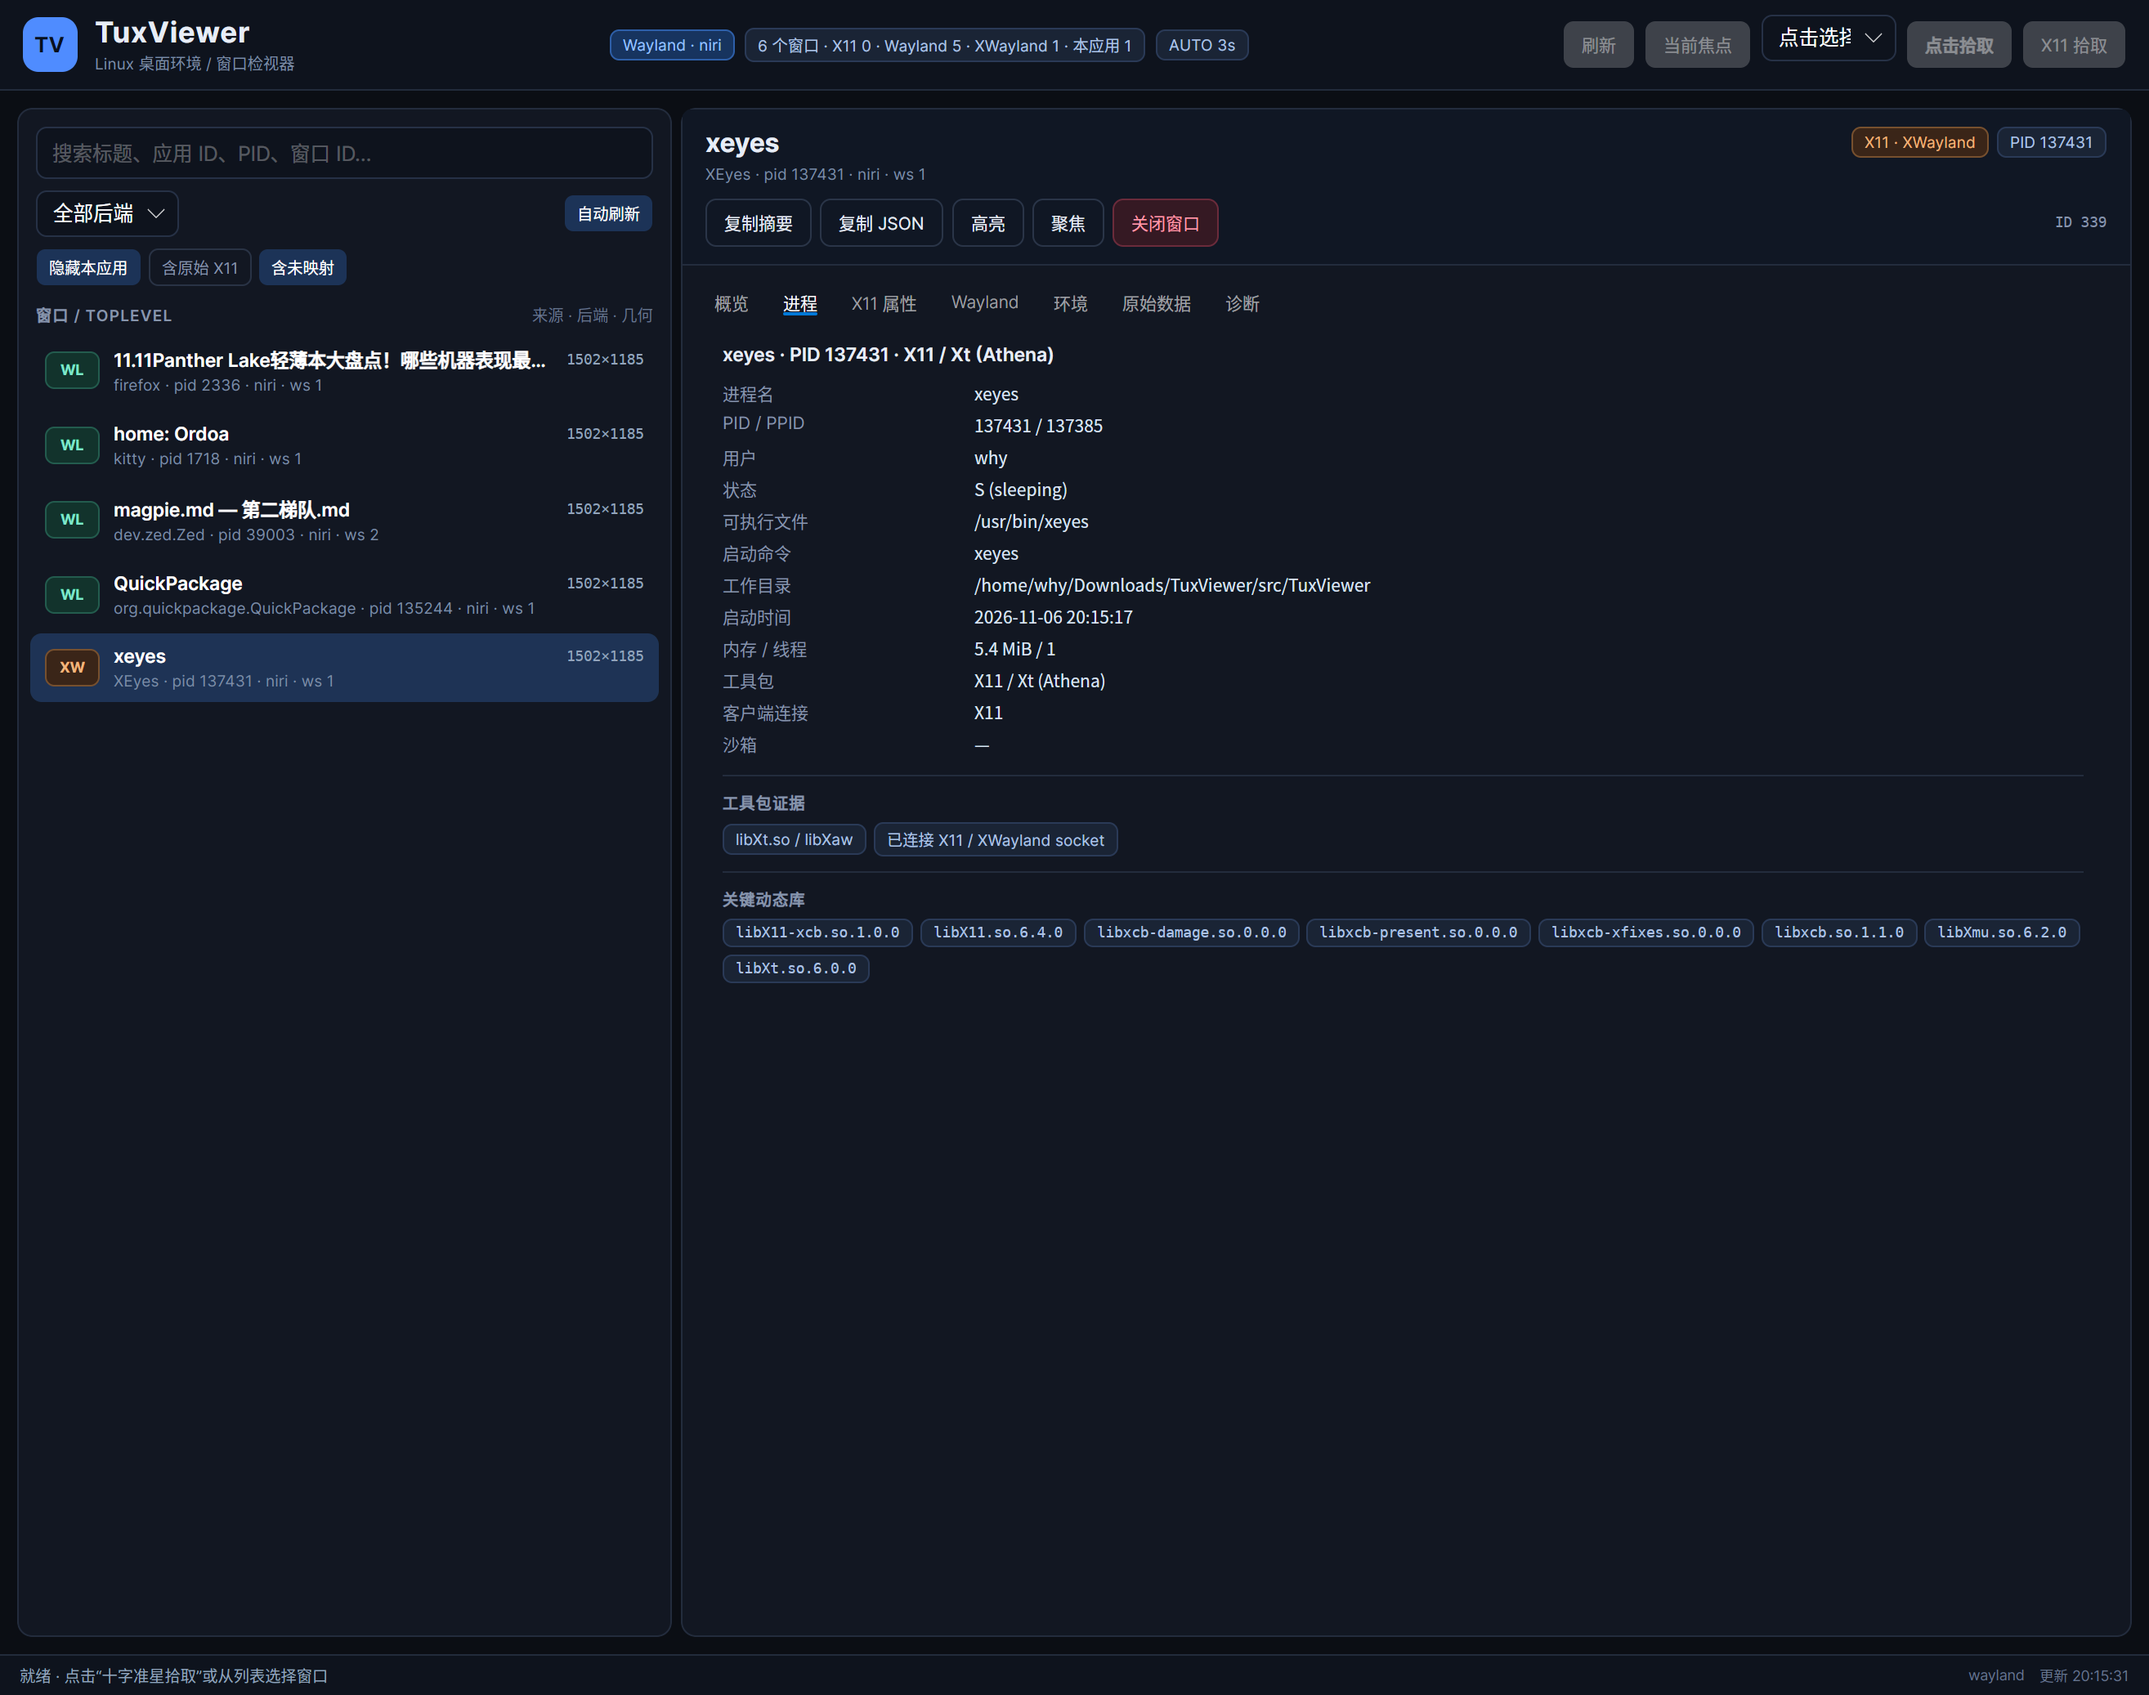
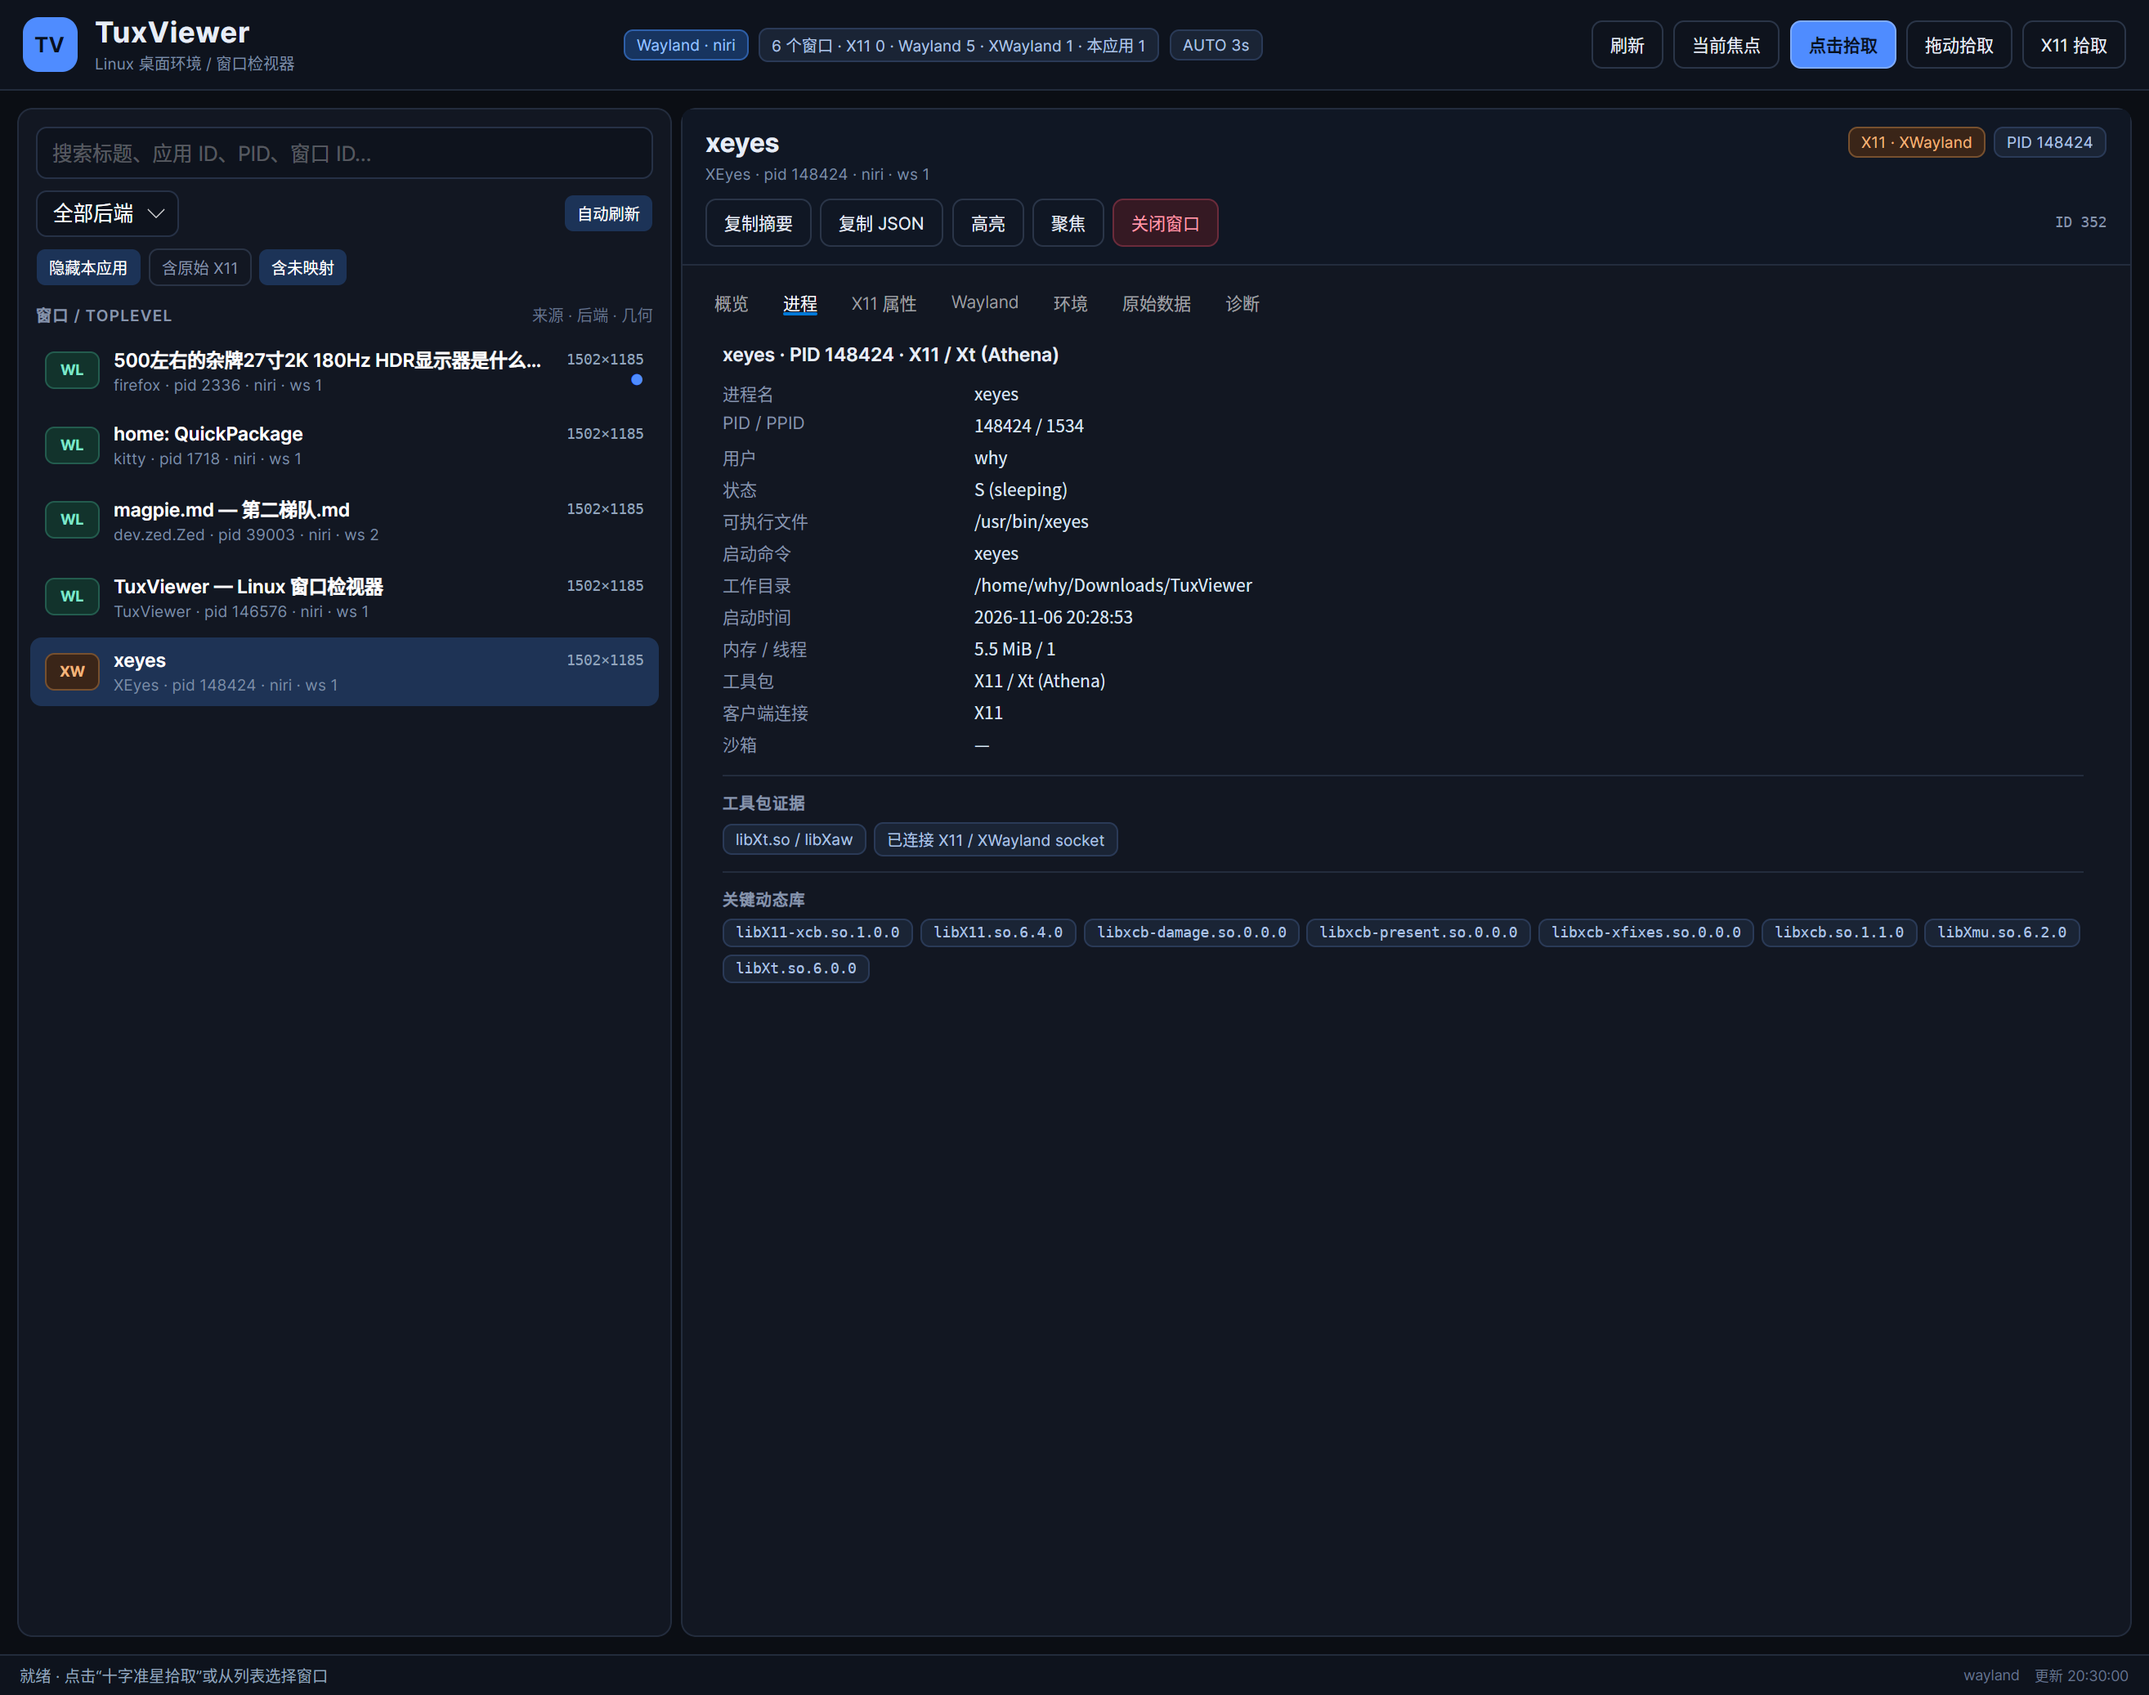
feat: replace pick mode dropdown with dedicated click and drag buttons

diff --git a/src/TuxViewer/ViewModels/MainWindowViewModel.cs b/src/TuxViewer/ViewModels/MainWindowViewModel.cs
@@ -30,7 +30,6 @@ public sealed class MainWindowViewModel : INotifyPropertyChanged
     private bool _includeUnmapped = true;
     private int _backendFilterIndex;
     private int _selectedTabIndex;
-    private int _pickModeIndex;
     private string _pickBanner = "";
     private int? _pickCountdown;
     private bool _hasSelection;
@@ -46,7 +45,6 @@ public sealed class MainWindowViewModel : INotifyPropertyChanged
     {
         _service = service;
         BackendFilters = ["全部后端", "X11（含 XWayland）", "Wayland 原生", "仅 XWayland", "仅 X11 原生"];
-        PickModes = ["点击选择", "拖动选择"];
     }
 
     public ObservableCollection<WindowInfo> Windows { get; } = [];
@@ -64,21 +62,7 @@ public sealed class MainWindowViewModel : INotifyPropertyChanged
     public ObservableCollection<InfoRow> SessionRows { get; } = [];
     public ObservableCollection<string> WaylandProtocols { get; } = [];
     public IReadOnlyList<string> BackendFilters { get; }
-    public IReadOnlyList<string> PickModes { get; }
     public string? InitialSelection { get; set; }
-
-    public int PickModeIndex
-    {
-        get => _pickModeIndex;
-        set
-        {
-            if (!Set(ref _pickModeIndex, value)) return;
-            OnPropertyChanged(nameof(CurrentPickMode));
-            OnPropertyChanged(nameof(PickButtonText));
-        }
-    }
-
-    public PickMode CurrentPickMode => PickModeIndex == 1 ? PickMode.Drag : PickMode.Click;
 
     public int SelectedTabIndex
     {
@@ -162,13 +146,8 @@ public sealed class MainWindowViewModel : INotifyPropertyChanged
         {
             if (!Set(ref _isPicking, value)) return;
             OnPropertyChanged(nameof(IsIdle));
-            OnPropertyChanged(nameof(PickButtonText));
         }
     }
-
-    public string PickButtonText => IsPicking
-        ? "拾取中…"
-        : CurrentPickMode == PickMode.Drag ? "拖动拾取" : "点击拾取";
 
     public string PickBanner
     {
@@ -357,7 +336,7 @@ public sealed class MainWindowViewModel : INotifyPropertyChanged
     public async Task PickAsync(bool x11Only = false, PickMode? mode = null)
     {
         if (IsPicking) return;
-        var pickMode = mode ?? CurrentPickMode;
+        var pickMode = mode ?? PickMode.Click;
         _pickCts?.Cancel();
         _pickCts = new CancellationTokenSource();
         var cts = _pickCts;

diff --git a/src/TuxViewer/Views/MainWindow.axaml.cs b/src/TuxViewer/Views/MainWindow.axaml.cs
@@ -2,6 +2,7 @@ using Avalonia.Controls;
 using Avalonia.Input;
 using Avalonia.Input.Platform;
 using Avalonia.Interactivity;
+using TuxViewer.Models;
 using TuxViewer.ViewModels;
 
 namespace TuxViewer.Views;
@@ -35,14 +36,21 @@ public partial class MainWindow : Window
     private async void Pick_Click(object? sender, RoutedEventArgs e)
     {
         if (ViewModel is null) return;
-        await ViewModel.PickAsync();
+        await ViewModel.PickAsync(mode: PickMode.Click);
+        Activate();
+    }
+
+    private async void PickDrag_Click(object? sender, RoutedEventArgs e)
+    {
+        if (ViewModel is null) return;
+        await ViewModel.PickAsync(mode: PickMode.Drag);
         Activate();
     }
 
     private async void PickX11_Click(object? sender, RoutedEventArgs e)
     {
         if (ViewModel is null) return;
-        await ViewModel.PickAsync(x11Only: true);
+        await ViewModel.PickAsync(x11Only: true, mode: PickMode.Click);
         Activate();
     }
 
@@ -103,7 +111,16 @@ public partial class MainWindow : Window
         {
             case Key.F2:
                 e.Handled = true;
-                await ViewModel.PickAsync(x11Only: e.KeyModifiers.HasFlag(KeyModifiers.Shift));
+                await ViewModel.PickAsync(
+                    x11Only: e.KeyModifiers.HasFlag(KeyModifiers.Shift),
+                    mode: PickMode.Click);
+                Activate();
+                break;
+            case Key.F3:
+                e.Handled = true;
+                await ViewModel.PickAsync(
+                    x11Only: e.KeyModifiers.HasFlag(KeyModifiers.Shift),
+                    mode: PickMode.Drag);
                 Activate();
                 break;
             case Key.F5:

diff --git a/src/TuxViewer/App.axaml.cs b/src/TuxViewer/App.axaml.cs
@@ -19,8 +19,6 @@ public partial class App : Application
             var viewModel = new MainWindowViewModel(service);
             viewModel.InitialSelection = ReadSelectArgument(desktop.Args);
             viewModel.SelectedTabIndex = ReadTabArgument(desktop.Args);
-            viewModel.PickModeIndex = string.Equals(ReadArg(desktop.Args, "--pick-mode"), "drag",
-                StringComparison.OrdinalIgnoreCase) ? 1 : 0;
             var window = new MainWindow { DataContext = viewModel };
             window.Closed += (_, _) => service.Dispose();
             desktop.MainWindow = window;
@@ -37,14 +35,6 @@ public partial class App : Application
             if (string.Equals(args[i], "--select", StringComparison.OrdinalIgnoreCase))
                 return args[i + 1];
         }
-        return null;
-    }
-
-    private static string? ReadArg(string[]? args, string name)
-    {
-        if (args is null) return null;
-        for (var i = 0; i < args.Length - 1; i++)
-            if (string.Equals(args[i], name, StringComparison.OrdinalIgnoreCase)) return args[i + 1];
         return null;
     }
 

diff --git a/src/TuxViewer/Program.cs b/src/TuxViewer/Program.cs
@@ -17,7 +17,7 @@ internal static class Program
                 TuxViewer — Linux 桌面环境 / 窗口检视器
 
                 用法:
-                  TuxViewer [--select <id|app_id|标题>] [--pick-mode click|drag]
+                  TuxViewer [--select <id|app_id|标题>]
                             [--tab <overview|process|x11|wayland|env|raw|diagnostics>]
                   TuxViewer --diagnose [--json] [--detail <id|app_id|标题>] [--highlight]
                   TuxViewer --pick-x11 <click|drag> [--json]
@@ -28,7 +28,7 @@ internal static class Program
                   TUXVIEWER_X11_DEBUG=1           输出 X11 调试日志
 
                 快捷键:
-                  F2 拾取窗口（Shift+F2 = 强制 X11 拾取）   F5 刷新   Esc 取消拾取
+                  F2 点击拾取   F3 拖动拾取   Shift+F2/F3 强制 X11   F5 刷新   Esc 取消
                 """);
             return 0;
         }

diff --git a/README.md b/README.md
@@ -76,14 +76,14 @@ TuxViewer 用于回答这些问题：
 
 - 窗口列表：搜索、后端筛选、隐藏本应用、包含原始 X11 窗口、包含未映射窗口
 - **两种拾取模式**：
-  - **点击选择**：出现十字准星，悬停高亮，单击确认
-  - **拖动选择**：按住左键拖动准星，拖动过程中实时高亮，松开确认
+  - **点击拾取**：出现十字准星，悬停高亮，单击确认
+  - **拖动拾取**：按住左键拖动准星，拖动过程中实时高亮，松开确认
 - 3 秒自动刷新（可关闭）
 - 拾取后自动定位详情，并自动高亮选中窗口
 - 复制摘要 / 完整 JSON
 - 详情页：概览、进程、X11 属性、Wayland、环境、原始数据、诊断
 - 诊断页：会话、后端可用性、Wayland 全局协议、GNOME 扩展安装
-- 快捷键：`F2` 拾取、`Shift+F2` 强制 X11 拾取、`F5` 刷新、`Esc` 取消
+- 快捷键：`F2` 点击拾取、`F3` 拖动拾取、`Shift+F2/F3` 强制 X11、`F5` 刷新、`Esc` 取消
 - X11 抓取时：点击模式左键单击；拖动模式按住左键拖动后松开；右键 / `Esc` 取消
 
 ### 6. CLI / 自动化
@@ -108,8 +108,8 @@ TuxViewer --pick-x11 drag --json
 # 安装可选 GNOME Shell 扩展
 TuxViewer --install-gnome-extension
 
-# 启动 GUI 并预选窗口 / 指定拾取模式
-TuxViewer --select xeyes --pick-mode drag
+# 启动 GUI 并预选窗口
+TuxViewer --select xeyes
 
 # 强制后端
 TUXVIEWER_BACKEND=x11     TuxViewer
@@ -170,10 +170,10 @@ dotnet publish src/TuxViewer -c Release -r linux-x64 --self-contained true -o di
 
 ### 十字准星拾取
 
-1. 在工具栏选择拾取模式：
-   - **点击选择**：出现十字准星，悬停即高亮，单击确认。
-   - **拖动选择**：出现十字准星后，在目标窗口按住左键拖动，高亮跟随指针，松开确认。
-2. 点击 **拾取** 按钮（或按 `F2`）开始。
+1. 直接点击工具栏按钮：
+   - **点击拾取**：出现十字准星，悬停即高亮，单击确认。
+   - **拖动拾取**：出现十字准星后，在目标窗口按住左键拖动，高亮跟随指针，松开确认。
+2. 快捷键：`F2` 点击拾取，`F3` 拖动拾取。
 3. 按提示操作：
    - **X11 / XWayland 窗口**：TuxViewer 使用 `XGrabPointer` 全局抓取，支持真正的点击和拖动，悬停 / 拖动时实时绘制边框。
    - **niri / KWin**：调用合成器原生拾取器。niri/KWin 的原生实现是点击式；拖动模式会提示并退化为点击确认。
@@ -181,7 +181,7 @@ dotnet publish src/TuxViewer -c Release -r linux-x64 --self-contained true -o di
    - **Sway**：倒计时 3 秒，点击目标窗口使其获得焦点，结束后读取焦点窗口。
 4. 拾取完成后窗口会自动加入列表并选中，并为选中的窗口触发一次短时高亮。
 
-> 如果只想检查 X11 / XWayland 窗口，使用 **X11 拾取** 按钮（或 `Shift+F2`），即使当前是 Wayland 会话。
+> 如果只想检查 X11 / XWayland 窗口，使用 **X11 拾取** 按钮（或 `Shift+F2 / Shift+F3`），即使当前是 Wayland 会话。
 > 在 niri 下，原生 Wayland 窗口的拖动式拾取受合成器 API 限制；可通过 **X11 拾取** 对 XWayland 窗口获得完整拖动 + 实时高亮体验。
 
 ### 判断“是不是 X11 应用”
